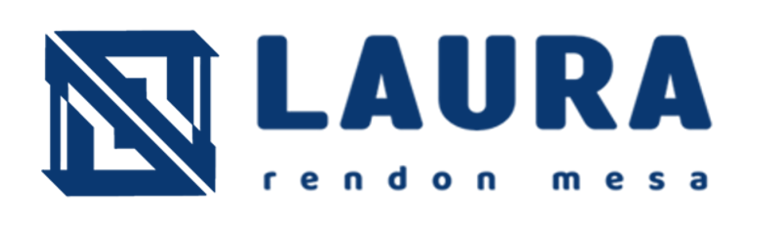
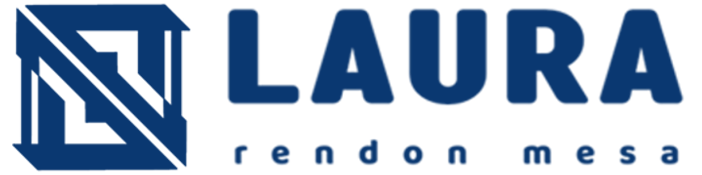
corrigiendo y dando estilos a imagenes

diff --git a/index.html b/index.html
@@ -26,7 +26,9 @@
             <button class="buttons decrypt">desencriptar</button>
         </article>
         <article class="seconds__field">
-            <p>Ningun mensaje fue encontrado</p>
+            <div>
+                <p>Ningun mensaje fue encontrado</p>
+            </div>
             <button class="buttons copyText">copiar</button>
         </article>
     </main>
@@ -45,7 +47,7 @@
                         <a href="https://github.com/lauramesa" target="_blank"><img src="/public/img/github.png" alt="github"></a>
                     </li>
                     <li>
-                        <a href="#"><img src="/public/img/correo.png" alt="correo"></a>
+                        <a href="mailto:lauramesa404@gmail.com?subject=Asunto del correo&body=Escribe aqui el cuerpo del correo"><img src="/public/img/correo.png" alt="correo"></a>
                     </li>
                     <li>
                         <a href="#"><img src="/public/img/portafolio.png" alt="portafolio"></a>

diff --git a/public/css/index.css b/public/css/index.css
@@ -47,6 +47,7 @@ header nav img{
     margin: 10px;
 }
 .seconds__field{
+    position: relative;
     width: 100%;
     height: 500px;
     background-color: var(--color-blanco);
@@ -62,7 +63,8 @@ header nav img{
 .buttons{
     margin: 10px 0;
     padding: 7px 10px;
-    border-radius: 15px;
+    border-radius: 10px;
+    font-size: 20px;
     color: var(--color-blanco);
     background-color: var(--color-azul);
     display: inline-block;
@@ -81,6 +83,10 @@ header nav img{
     font-weight: 500;
     font-size: 20px;
     line-height:  1.4;
+}
+.copyText{
+    position: absolute;
+    bottom: 0;
 }
 footer{
     width: 100%;
@@ -119,6 +125,11 @@ footer{
 .main__page {
     flex-direction: column;
     align-items: center;
+}
+header nav img{
+    width: auto;
+    height: 40px;
+    margin: 3px;
 }
 .entrada {
     margin-top: 20px;
